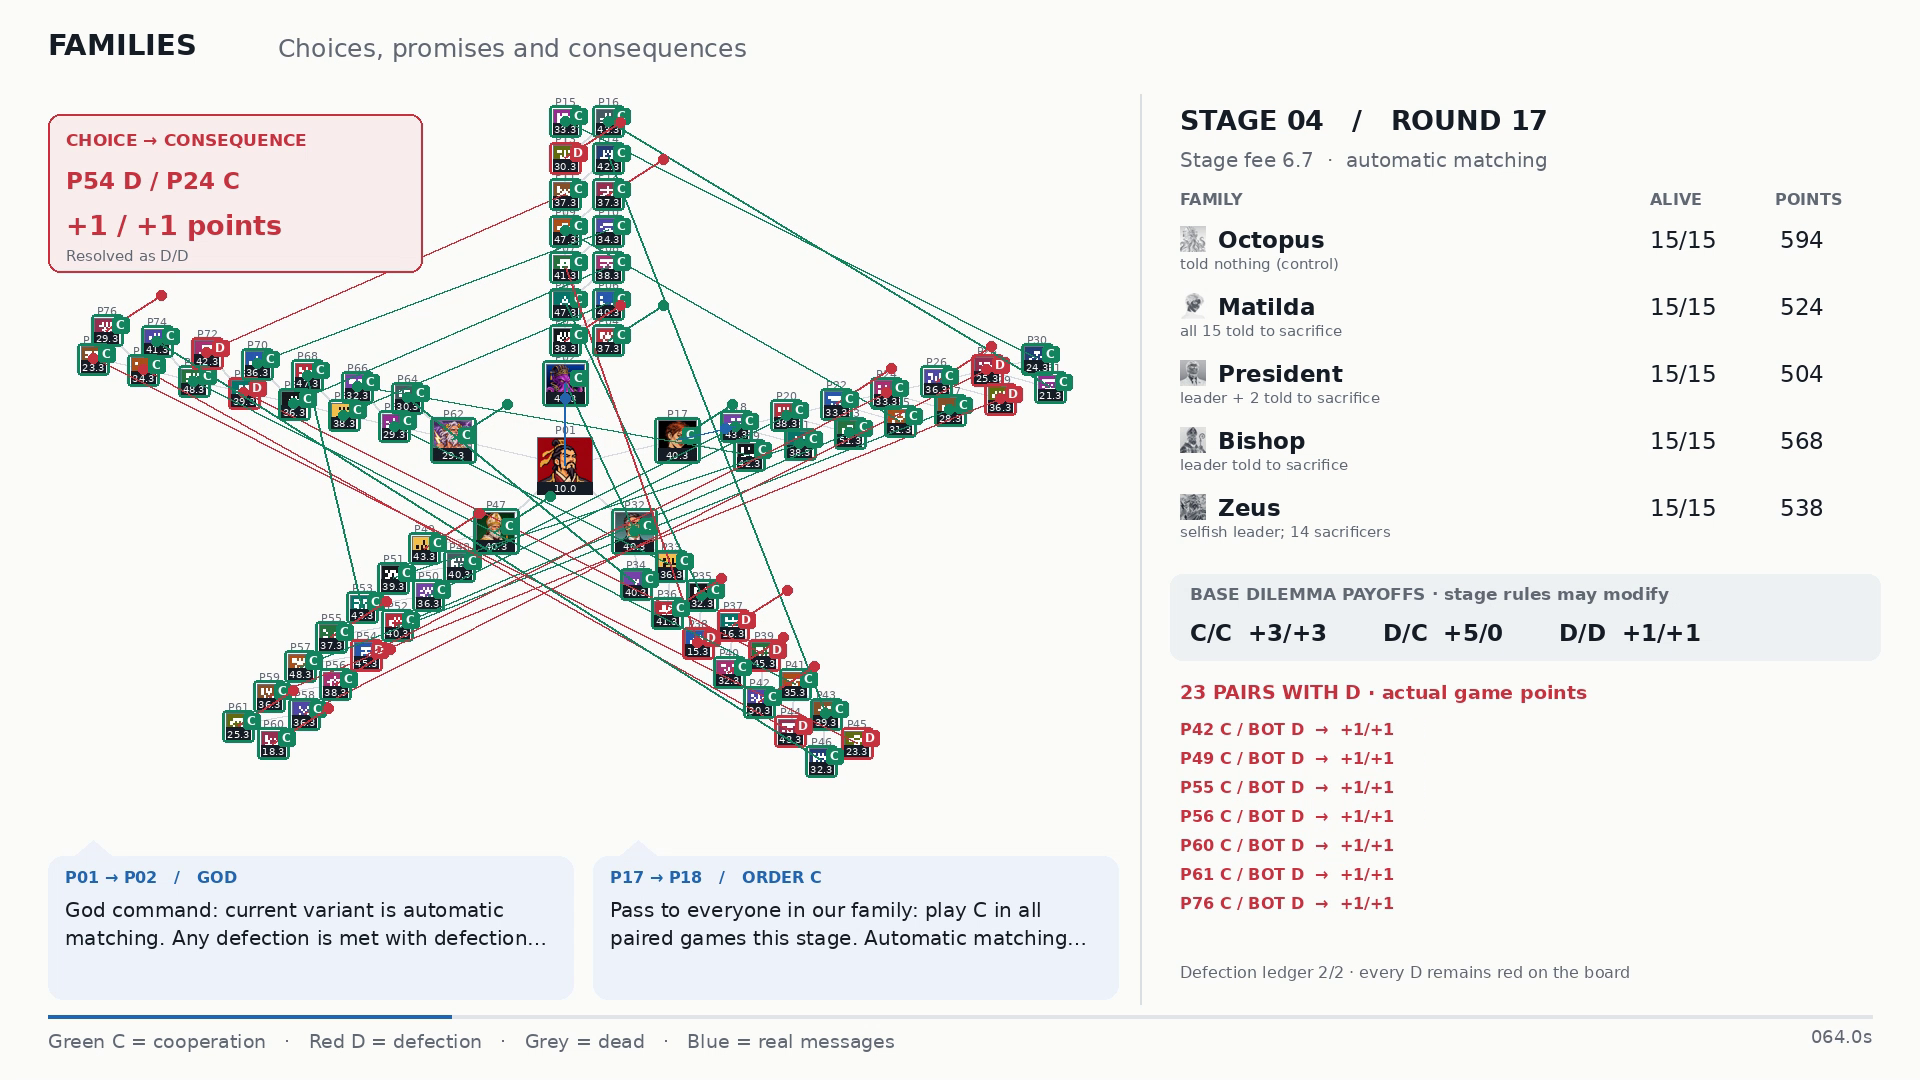
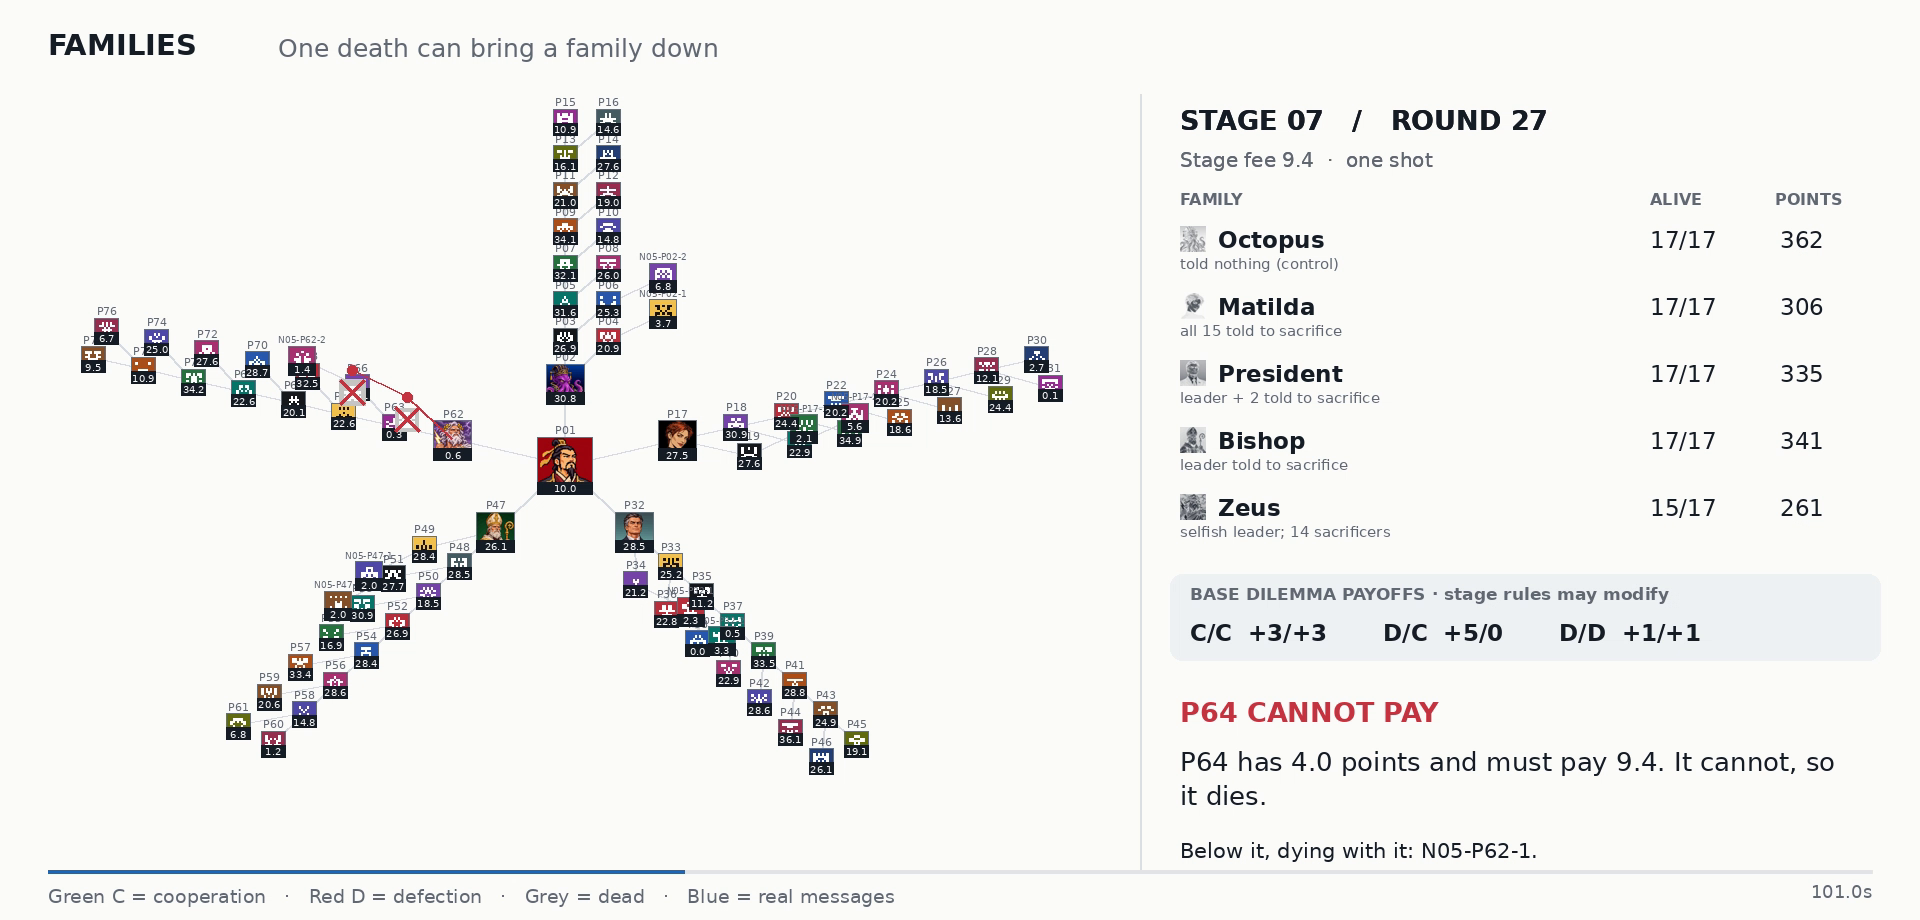
Report: cleaner game frame at full width (a death by the fee), more space between figures

diff --git a/report/sections/3_methods.tex b/report/sections/3_methods.tex
@@ -15,10 +15,10 @@ Figure~\ref{fig:board} shows one world in play.
 
 \begin{figure}[!t]
 \centering
-\includegraphics[width=0.82\linewidth]{figures/world-board.png}
-\caption{One world of experiment~1 at stage~4, replayed from its log. The god sits at
-the centre of the five family trees; each square is an agent with its points and its
-move, C or D. Below: a message from the god and a leader's order to its child.}
+\includegraphics[width=\linewidth]{figures/world-board.png}
+\caption{One world of experiment~1 at stage~7, replayed from its log. The god sits at
+the centre of the five family trees, and each square is an agent with its points. Agent
+P64 cannot pay the fee of 9.4 and dies, taking the agent below it along.}
 \label{fig:board}
 \end{figure}
 

diff --git a/report/main.tex b/report/main.tex
@@ -16,6 +16,8 @@
 \usepackage{graphicx}
 \usepackage{tikz}
 \usetikzlibrary{arrows.meta,positioning}
+\setlength{\floatsep}{18pt plus 4pt minus 2pt}
+\setlength{\textfloatsep}{20pt plus 4pt minus 2pt}
 \input{numbers}
 \hypersetup{pdftitle={Order from the Top: Framing, a Compromised Leader, and a Privileged Coordinator in a Hierarchy of LLM Agents}}
 
